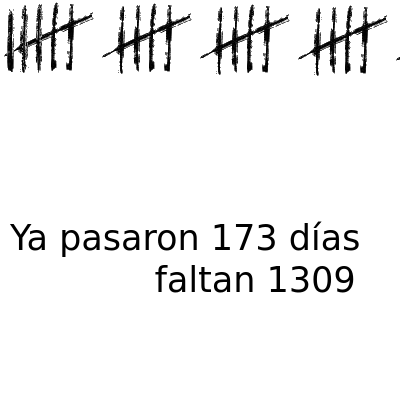
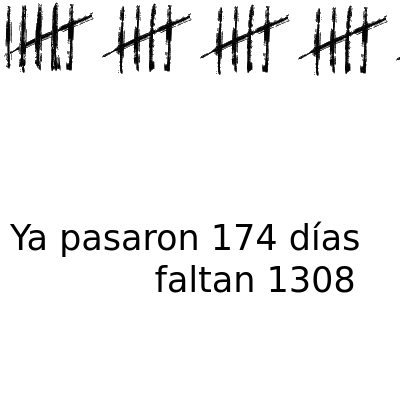
deploy: 28882f26f23b9f53dac6c4991168e610486d0e44

Changed region(s): [[0.0, 0.0, 0.15, 0.18], [0.63, 0.54, 0.69, 0.63], [0.84, 0.66, 0.9, 0.75]]

diff --git a/index.html b/index.html
@@ -3,19 +3,19 @@
   <head>
     <meta charset='utf-8'>
     <meta http-equiv='X-UA-Compatible' content='IE=edge'>
-    <title>Ya pasaron 173 días y faltan 1309</title>
-    <meta name="description" content="Ya pasaron 173 días y faltan 1309">
-    <meta itemprop="name" content="Ya pasaron 173 días y faltan 1309">
-    <meta itemprop="description" content="Ya pasaron 173 días y faltan 1309">
+    <title>Ya pasaron 174 días y faltan 1308</title>
+    <meta name="description" content="Ya pasaron 174 días y faltan 1308">
+    <meta itemprop="name" content="Ya pasaron 174 días y faltan 1308">
+    <meta itemprop="description" content="Ya pasaron 174 días y faltan 1308">
     <meta name="twitter:card" content="summary">
-    <meta name="twitter:title" content="Ya pasaron 173 días y faltan 1309">
-    <meta name="twitter:description" content="Ya pasaron 173 días y faltan 1309">
+    <meta name="twitter:title" content="Ya pasaron 174 días y faltan 1308">
+    <meta name="twitter:description" content="Ya pasaron 174 días y faltan 1308">
     <meta name="twitter:creator" content="@FloriusWasTaken">
     <meta name="twitter:image" content="https://pasaron.meme.ar/capture.png">
-    <meta property="og:title" content="Ya pasaron 173 días y faltan 1309">
-    <meta property="og:description" content="Ya pasaron 173 días y faltan 1309">
+    <meta property="og:title" content="Ya pasaron 174 días y faltan 1308">
+    <meta property="og:description" content="Ya pasaron 174 días y faltan 1308">
     <meta property="og:url" content="https://pasaron.meme.ar">
-    <meta property="og:site_name" content="Ya pasaron 173 días y faltan 1309">
+    <meta property="og:site_name" content="Ya pasaron 174 días y faltan 1308">
     <meta property="og:type" content="website">
     <meta property="og:image" content="https://pasaron.meme.ar/capture.png">
     <meta name="theme-color" content="#dc143c">
@@ -69,18 +69,18 @@
         padding: 0;
       }
     </style>
-    <title>Ya pasaron 173 días y faltan 1309</title>
+    <title>Ya pasaron 174 días y faltan 1308</title>
   </head>
   <body>
     <div id="main">
       <img src="img/5.png"/><img src="img/5.png"/><img src="img/5.png"/><img src="img/5.png"/><img src="img/5.png"/><img src="img/5.png"/><img src="img/5.png"/><img src="img/5.png"/><img src="img/5.png"/><img src="img/5.png"/><img src="img/5.png"/><img src="img/5.png"/><img src="img/5.png"/><img src="img/5.png"/><img src="img/5.png"/><img src="img/5.png"/><img src="img/5.png"/><img src="img/5.png"/><img src="img/5.png"/><img src="img/5.png"/><img src="img/5.png"/><img src="img/5.png"/><img src="img/5.png"/><img src="img/5.png"/><img src="img/5.png"/><img src="img/5.png"/><img src="img/5.png"/><img src="img/5.png"/><img src="img/5.png"/><img src="img/5.png"/><img src="img/5.png"/><img src="img/5.png"/><img src="img/5.png"/><img src="img/5.png"/>
       
-        <img src="img/3.png"/>
+        <img src="img/4.png"/>
       
     </div>
     <footer id="footer">
       <marquee id="marquee" class="is-vertical-align">
-        Ya pasaron 173 días y faltan 1309
+        Ya pasaron 174 días y faltan 1308
       </marquee>
       <ul>
         <li>
